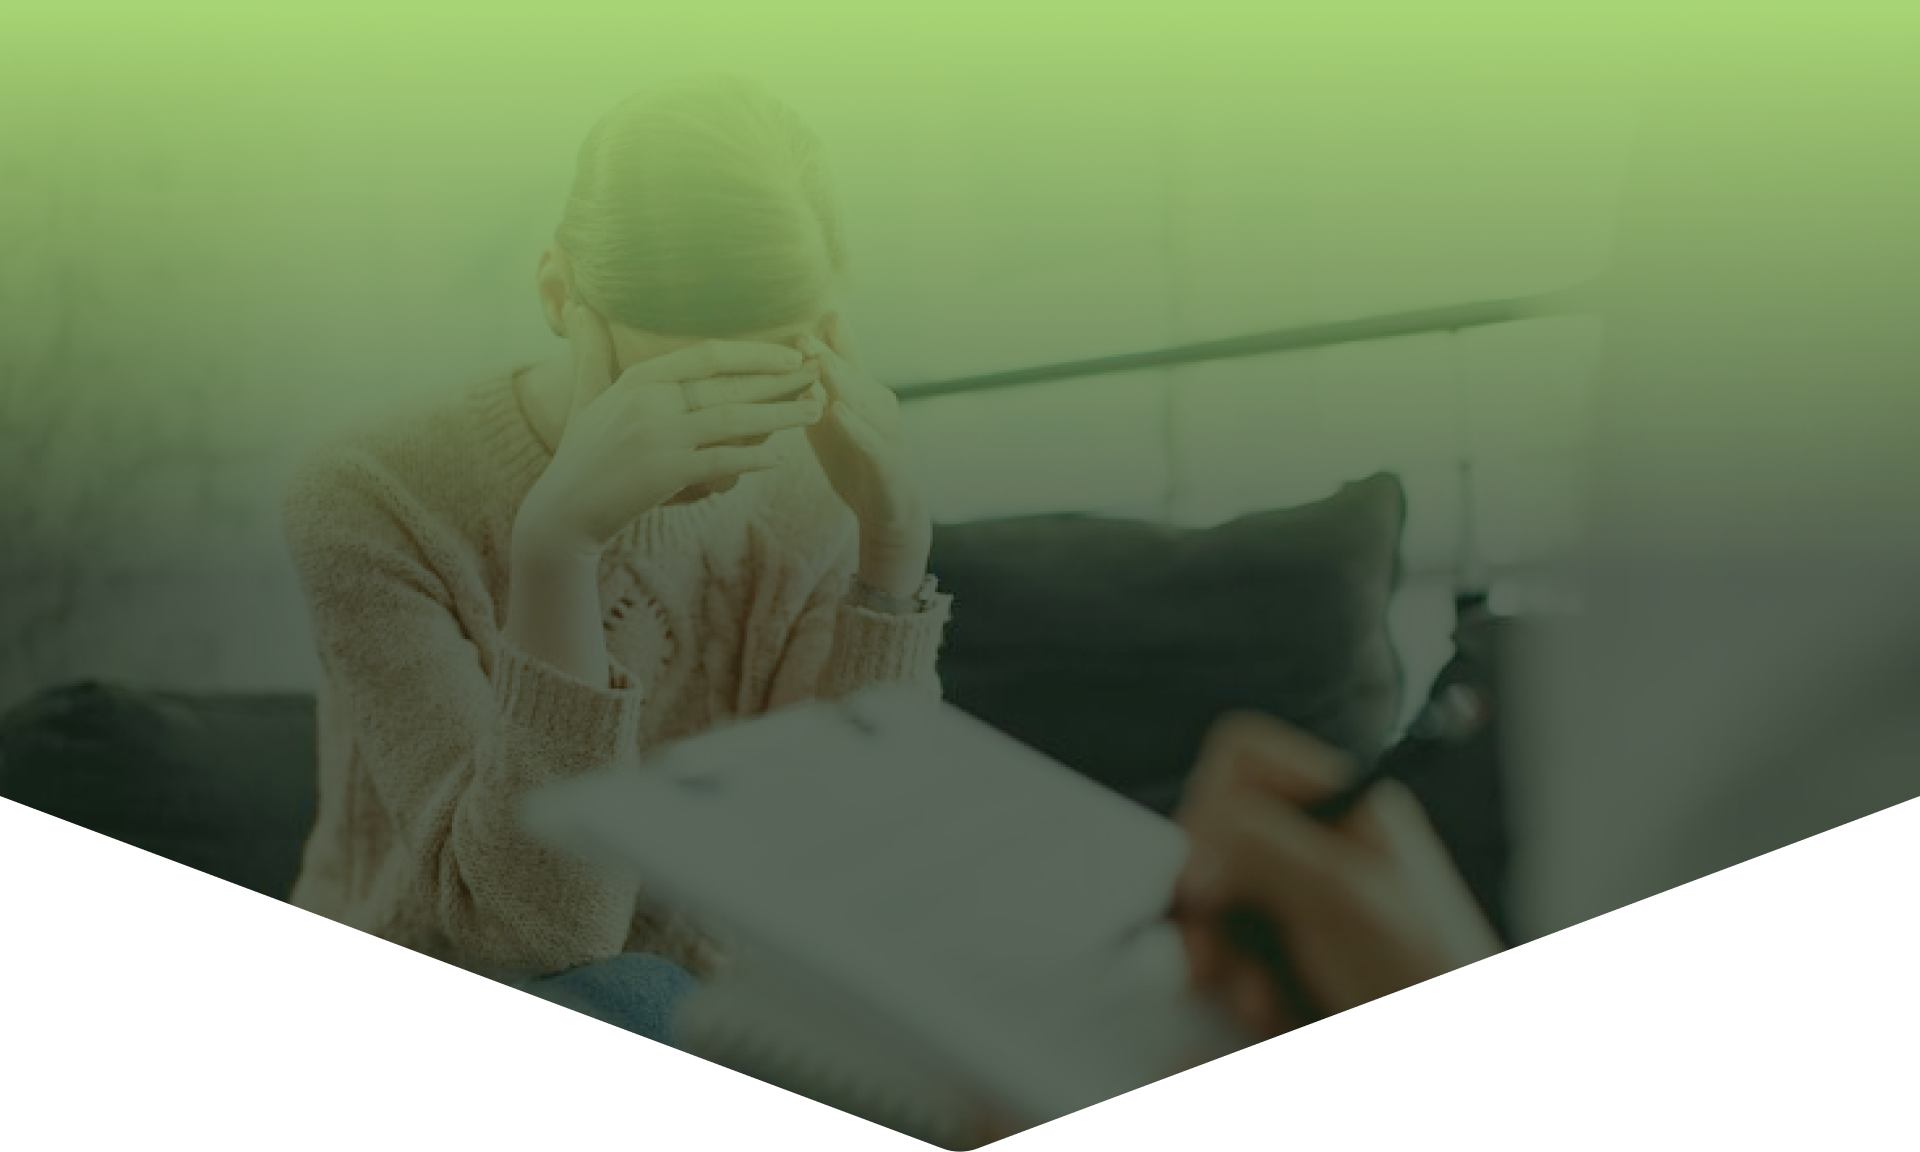
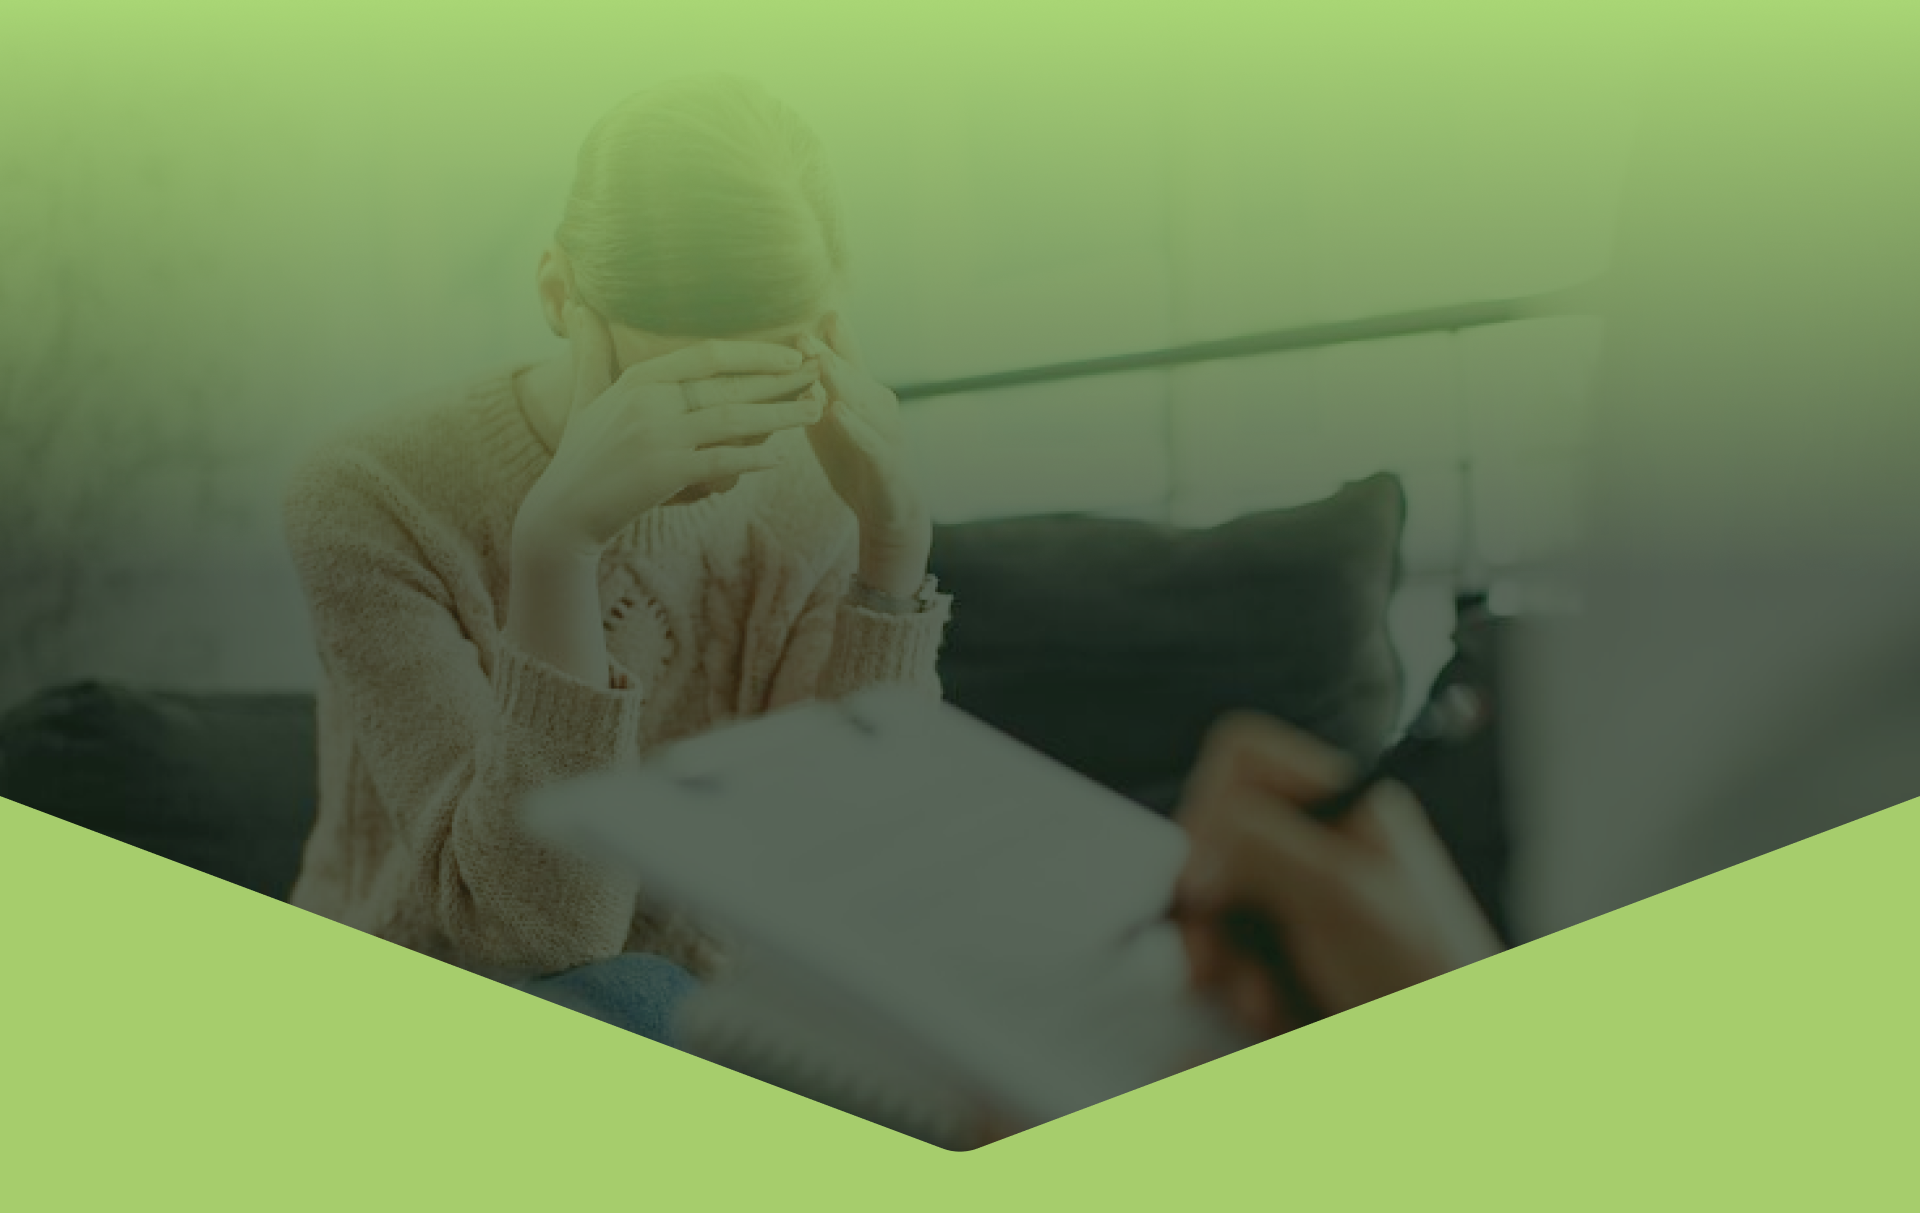
up

diff --git a/style.css b/style.css
@@ -901,10 +901,10 @@ a {
     background-repeat: no-repeat;
     color: #ffffff;
     width: 100%;
-    height: 1100px; /* 고정 높이 */
+    height: 1200px; /* 고정 높이 */
     padding: 20px;
     z-index: 5; /* user보다 위에 위치하도록 설정 */
-    position: relative; /* z-index 사용을 위한 위치 설정 */
+    
 }
 
 .stress-text {
@@ -936,11 +936,10 @@ a {
     background-repeat: no-repeat;
     color: #ffffff;
     width: 100%;
-    height: 1100px; /* 고정 높이 */
+    height: 1500px; /* 고정 높이 */
     padding: 50px;
     text-align: center;
     z-index: 2;
-    position: relative; /* z-index 사용을 위한 위치 설정 */
 }
 
 
